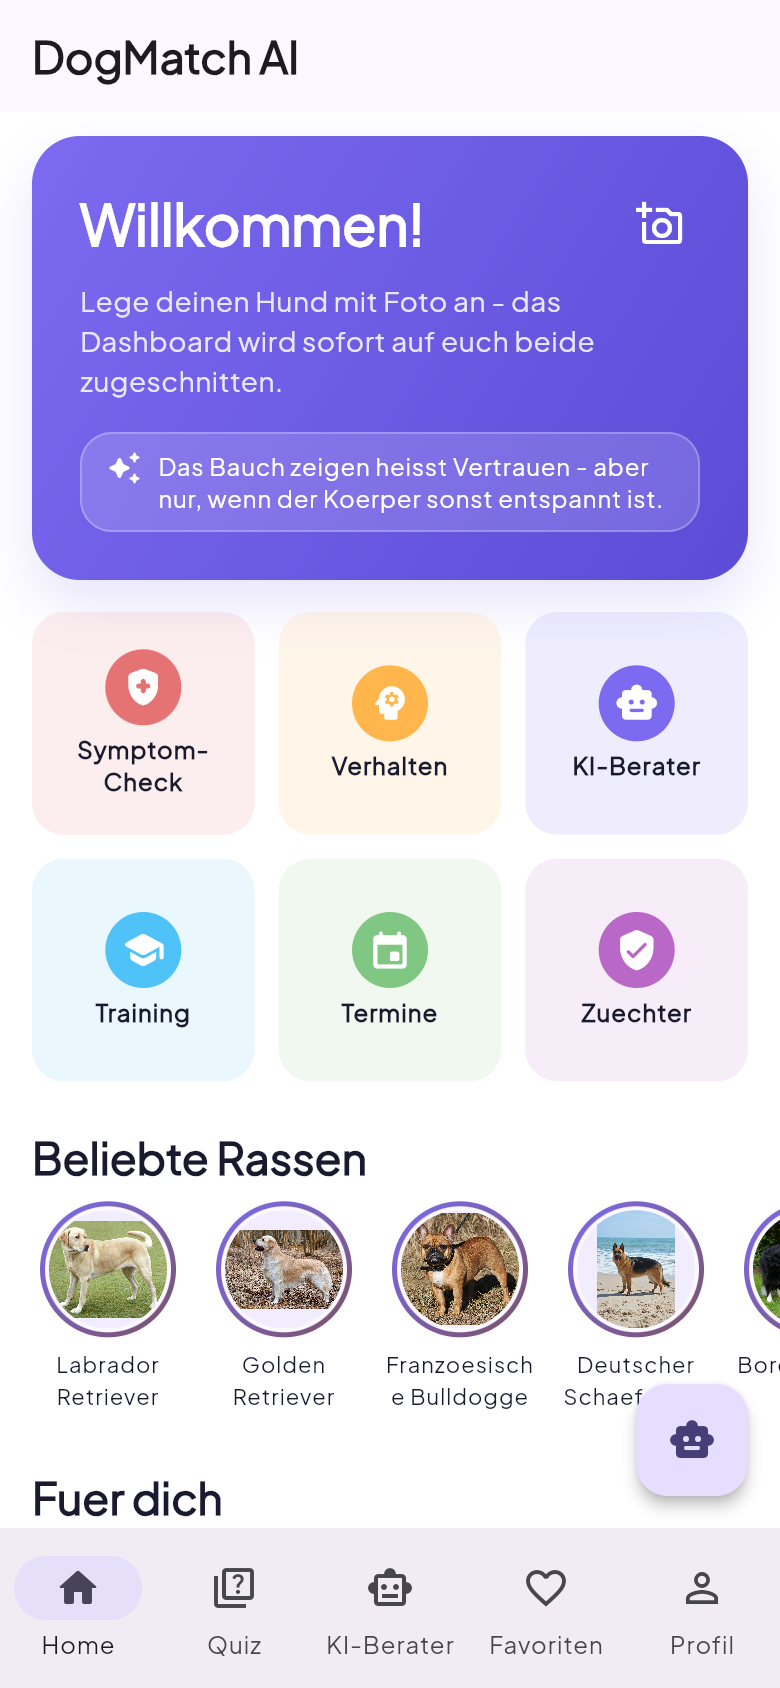
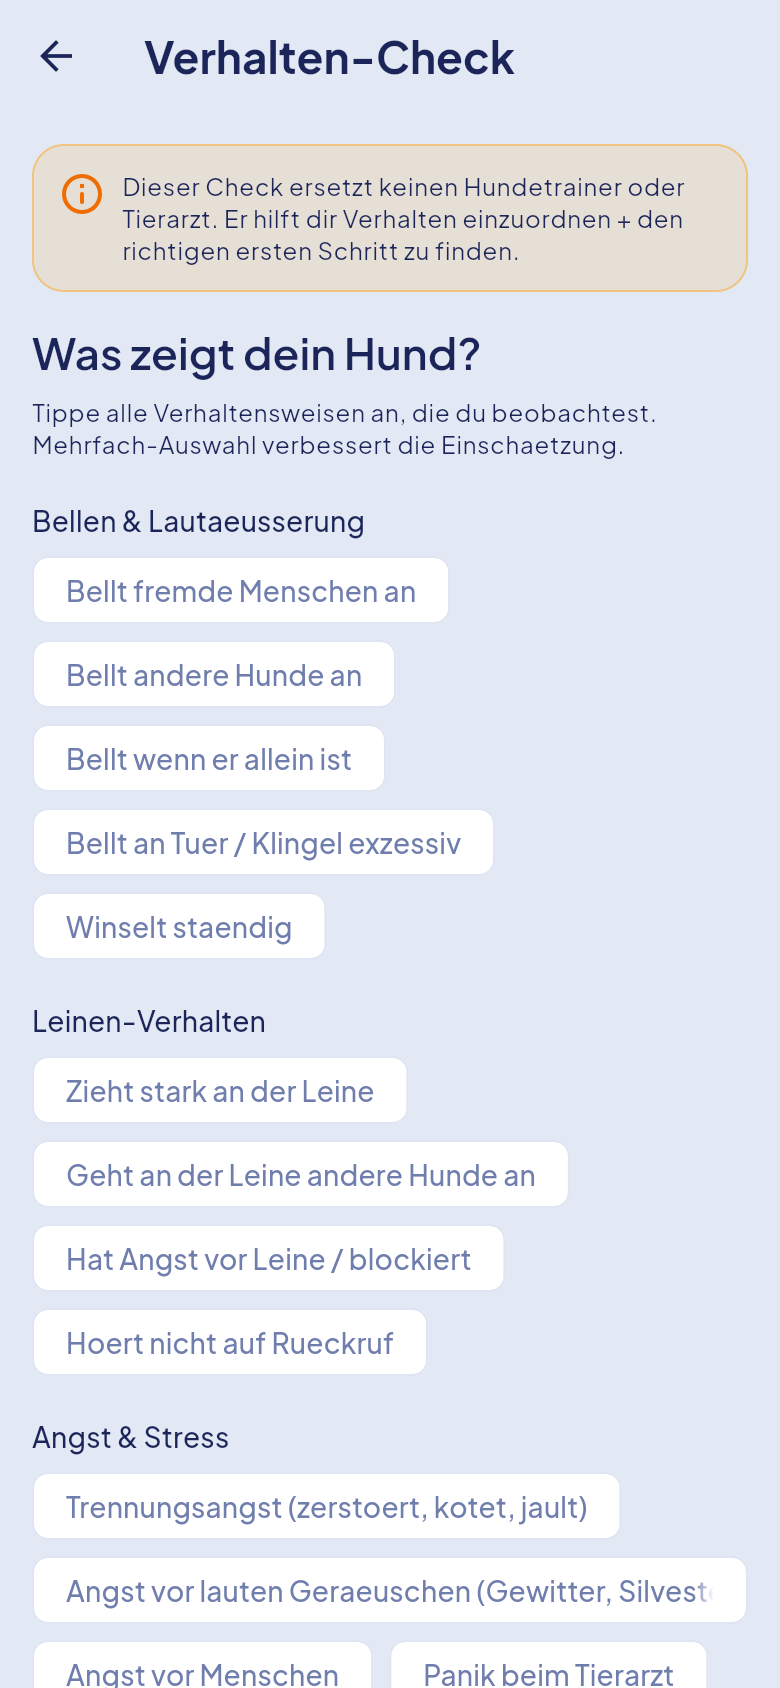
DogMatch: doppelten Screenshot ersetzt
dogmatch-2.png war identisch zu dogmatch-1.png (Uebersicht). Slot 2 durch
echten "Verhalten-Check"-Screen aus der Live-App ersetzt (frisch
aufgenommen, 780x1688 wie die anderen), Alt-Text angepasst. Galerie zeigt
nun 5 verschiedene Ansichten.

diff --git a/index.html b/index.html
@@ -212,7 +212,7 @@
 
           <div class="store-shots" tabindex="0" aria-label="Screenshots der DogMatch AI App">
             <img src="assets/img/apps/dogmatch-1.png" alt="DogMatch AI – Übersicht" loading="lazy">
-            <img src="assets/img/apps/dogmatch-2.png" alt="DogMatch AI – Rassen" loading="lazy">
+            <img src="assets/img/apps/dogmatch-2.png" alt="DogMatch AI – Verhalten-Check" loading="lazy">
             <img src="assets/img/apps/dogmatch-3.png" alt="DogMatch AI – Checklisten" loading="lazy">
             <img src="assets/img/apps/dogmatch-4.png" alt="DogMatch AI – Tipps" loading="lazy">
             <img src="assets/img/apps/dogmatch-5.png" alt="DogMatch AI – Training" loading="lazy">